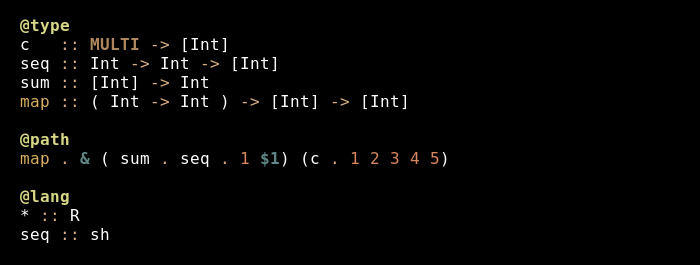
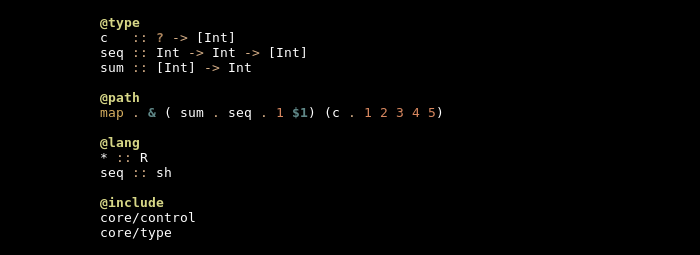
Replace MULTI with '?' and NULL with void
Inside type and ontology sections, '?' now refers to 0 or more generic
types. This syntax matches that used in literature (see that gradual
type paper).

I replaced `NULL` with `void` as the IO type. This is a temporary type.
Eventually I will replace it with the Haskell IO. But IO in Haskell is a
constructor, which I do not yet support.

diff --git a/frontend/type.c b/frontend/type.c
@@ -105,7 +105,7 @@ void _infer_multi_type(W* w){
     wm = g_manifold(g_rhs(w));
     if(wm->type &&
        strcmp(g_string(g_lhs(wm->type->head)), "atomic") == 0 &&
-       strcmp(g_string(g_rhs(wm->type->head)), "MULTI") == 0 &&
+       strcmp(g_string(g_rhs(wm->type->head)), __MULTI__) == 0 &&
        ws_length(wm->type) == 2 &&
        ws_length(wm->inputs) > 1
     ){
@@ -149,7 +149,7 @@ W* _typecheck(W* w, W* msg){
     if(
         ws_length(m->type) == 2 &&
         strcmp(g_string(g_lhs(m->type->head)), "atomic") == 0 &&
-        strcmp(g_string(g_rhs(m->type->head)), "MULTI") == 0
+        strcmp(g_string(g_rhs(m->type->head)), __MULTI__) == 0
     ){
         return msg;
     }

diff --git a/frontend/type.h b/frontend/type.h
@@ -1,8 +1,8 @@
 #ifndef __TYPE_H__
 #define __TYPE_H__
 
-#define __IO__ "NULL"
-#define __MULTI__ "MULTI"
+#define __IO__ "void"
+#define __MULTI__ "?"
 
 #include "ws_access.h"
 
